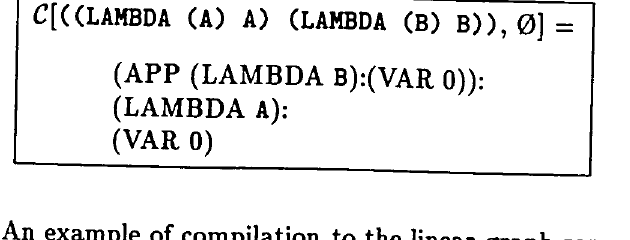
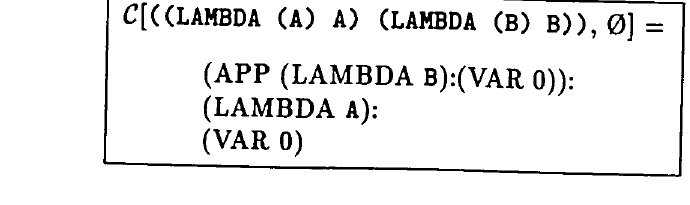
Proofread Chapter 4 opening figures

Changed region(s): [[0.0, 0.0, 0.9952, 0.878], [0.0, 0.9073, 0.9651, 1.0]]

diff --git a/thesis-transcription/src/chapters/chapter4.tex b/thesis-transcription/src/chapters/chapter4.tex
@@ -33,8 +33,8 @@ The binary tree representation, however, requires a lot of memory bandwidth. In 
 A modification to the binary tree representation reduces bandwidth requirements, supports de-compilation, and provides better support for graph traversal. If memory is viewed as a linear sequence of graph nodes, expressions can be represented in a linear fashion by adopting certain memory conventions:
 
 \begin{itemize}
-\item Abstraction nodes have only one field, which contains the bound variable; the body is always located in the next sequential node in memory.
-\item Application nodes also have only one field, which points to the operand; the operator is always located in the next sequential node in memory.
+\item Abstraction nodes have only one field, which contains the bound variable; \emph{the body is always located in the next sequential node in memory.}
+\item Application nodes also have only one field, which points to the operand; \emph{the operator is always located in the next sequential node in memory.}
 \item Variable nodes have a single field which contains the variable's identifier.
 \end{itemize}
 
@@ -56,11 +56,11 @@ Figure 4.2 shows how the graph in Figure 4.1 is represented using the above conv
 
 Traversing a linear graph is easy. To move down the spine of a graph you move to the next node in memory, and to move up the spine you move to the previous node in memory. Because the addresses of abstraction bodies and application operators are computed instead of read from the graph, memory bandwidth and storage requirements are reduced by roughly one-half.
 
-\begin{quote}\small
-Figure 4.3 presents a compiler for translating the pure \lambdacalculus{} subset of THOR into
-\end{quote}
-
-the linear graph representation. Figure 4.4 shows an example linear graph produced by this compiler. Although variables are now represented by DeBruijn indices instead of named identifiers, abstraction nodes still record identifier names for use in de-compilation.
+Figure 4.3 presents a compiler for translating the pure \lambdacalculus{} subset
+of THOR into the linear graph representation. Figure 4.4 shows an example linear
+graph produced by this compiler. Although variables are now represented by
+DeBruijn indices instead of named identifiers, abstraction nodes still record
+identifier names for use in de-compilation.
 
 \begin{figure}[htbp]
 \centering
